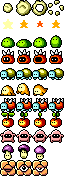
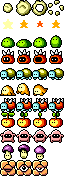
Bug fixes

Changed region(s): [[0.0, 0.6534, 1.0, 0.7386]]

diff --git a/src/objectmanager.ts b/src/objectmanager.ts
@@ -457,8 +457,21 @@ export class ObjectManager {
         width : number, height : number) : boolean => 
         objectInArea(this.stars, dx, dy, width, height);
 
-    public hasEnemyInArea = 
-        (dx : number, dy : number, 
-        width : number, height : number) : boolean => 
-        objectInArea(this.enemies, dx, dy, width, height);
+
+    public hasEnemyInArea(dx : number, dy : number, 
+        width : number, height : number) : boolean {
+
+        let p : Vector2;
+
+        for (let a of this.enemies) {
+
+            if (!a.doesExist() || a.isDying() || a.isGhost()) 
+                continue;
+
+            p = a.getPos();
+            if (p.x >= dx && p.y >= dy && p.x <= dx + width && p.y <= dy + height)
+                return true;
+        }
+        return false;
+    }
 }

diff --git a/src/enemy.ts b/src/enemy.ts
@@ -686,8 +686,8 @@ export class SpikeTurtle extends Turtle {
         this.canBeStomped = false;
         this.canBeSpun = false;
 
-        this.id = 5;
-        this.spr.setFrame(0, this.id+1);
+        this.id = 4;
+        this.spr.setFrame(0, this.id+2);
 
         this.center = new Vector2(0, 3);
         this.hitbox = new Vector2(10, 10);

diff --git a/src/stage.ts b/src/stage.ts
@@ -622,7 +622,7 @@ export class Stage {
 
     public objectCollisions(o : CollisionObject, camera : Camera, event : CoreEvent) {
 
-        const RADIUS = 2;
+        const RADIUS = 3;
         const BASE_TILE_MAX = 15;
         const WATER_SURFACE_OFFSET = 4;
 
